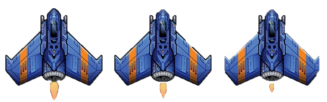
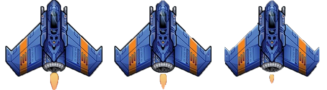
new projecttiles logic added; bugs fixed

diff --git a/Projectile.cpp b/Projectile.cpp
@@ -1,7 +1,6 @@
 #include <iostream>
 
 #include "Projectile.h"
-#include "Consts.h"
 
 struct AmmoParams
 {
@@ -11,10 +10,12 @@ struct AmmoParams
 
 AmmoParams getAmmoParamsByGunType(GunTypes type);
 
-const int ROCKET_AMMO_SPEED = 20;
+const int EXPLOSION_PROJECTILE_CLIP_LENGTH = 1;
+
+const int ROCKET_AMMO_SPEED = 8;
 const int LAZER_AMMO_SPEED = 1000;
 
-TextureParams ROCKET_AMMO_TEXTURE_PARAMS = { TEXTURE_SPRITE, "res/rocket2.png", { 30, 76, 3 } };
+TextureParams ROCKET_AMMO_TEXTURE_PARAMS = { TEXTURE_SPRITE, "res/rocket3.png", { 30, 90, 3 } };
 TextureParams LAZER_AMMO_TEXTURE_PARAMS = { TEXTURE_SPRITE, "res/lazer_ammo.png" , { 27, 111, 3 } };
 
 Projectile::Projectile(GunTypes p_type, SDL_Renderer* p_renderer) : Texture(p_renderer)
@@ -27,10 +28,26 @@ Projectile::Projectile(GunTypes p_type, SDL_Renderer* p_renderer) : Texture(p_re
 	vel = params.speed; // Todo: replace by velocity
 	gunType = p_type;
 
-	
+	loadFromSprite(params.texture.path, params.texture.spriteParams);
+
+	// Set up explosion and common clips
+	Clips& pjClips = getClips();
+
+	for (short i = 0; i < pjClips.size(); i++)
+	{
+		if (i < EXPLOSION_PROJECTILE_CLIP_LENGTH) // Todo: length should relate on type
+		{
+			explosionClips.push_back(&pjClips[i]);
+		}
+		else
+		{
+			clips.push_back(&pjClips[i]);
+		}
+	}
+
 	//if (params.texture.type == TEXTURE_SPRITE)
 	//{
-		loadFromSprite(params.texture.path, params.texture.spriteParams);
+		//loadFromSprite(params.texture.path, params.texture.spriteParams);
 
 	//}
 	//else
@@ -41,11 +58,13 @@ Projectile::Projectile(GunTypes p_type, SDL_Renderer* p_renderer) : Texture(p_re
 
 void Projectile::startProjectile(SDL_Point* shipPosition)
 {
-	// Todo: make widht/height const; replace 98 by shipWidth
+	// Todo: make widht/height const; replace 109 by shipWidth
+	// Todo: relate y on gun position
 	FlyingProjectile newProjectile = {
 		{ shipPosition->x + (109 - width) / 2, shipPosition->y - height },
-		0
-	};	
+		0,
+		false
+	};
 
 	releasedPjs.push_back(newProjectile);
 }
@@ -60,12 +79,21 @@ void Projectile::handleEvent(SDL_Event& e)
 
 void Projectile::onBeforeRender()
 {
-	std::vector<SDL_Rect>& shipClips = getClips(); // add to flying object as rendered clips
-
 	for (int i = 0; i < releasedPjs.size(); i++)
 	{
-		move(&releasedPjs[i]);
-		SDL_Rect* currentClip = &shipClips[releasedPjs[i].frame / shipClips.size()];
+		FlyingProjectile& pj = releasedPjs[i];
+
+		if (pj.isStarted)
+		{
+			move(&pj);
+		}
+
+		// Limit clips if exploaded
+		SDL_Rect* currentClip = 
+			pj.isStarted ? 
+			clips[pj.frame / clips.size()]:
+			explosionClips[pj.frame / explosionClips.size()];
+
 		render(releasedPjs[i].position.x, releasedPjs[i].position.y, currentClip);
 	}
 }
@@ -74,11 +102,22 @@ void Projectile::onAfterRender()
 {
 	for (int i = 0; i < releasedPjs.size(); i++)
 	{
-		++releasedPjs[i].frame;
-
-		if (releasedPjs[i].frame / 4 >= getClips().size()) // Todo: update
+		FlyingProjectile& pj = releasedPjs[i];
+		short clipLength = pj.isStarted ? clips.size() : explosionClips.size();
+		
+		if (++pj.frame / clipLength >= clipLength)
 		{
-			releasedPjs[i].frame = 0;
+			if (!pj.isStarted)
+			{
+				pj.isStarted = true;
+			}
+			pj.frame = 0;
+		}
+
+		// Remove missed projectiles
+		if (pj.position.y < 0 || pj.position.x < 0)
+		{
+			releasedPjs.erase(releasedPjs.begin() + i);
 		}
 	}
 }

diff --git a/WeaponModule.cpp b/WeaponModule.cpp
@@ -1,16 +1,5 @@
 #include "WeaponModule.h"
 
-const float ROCKET_COOLDOWN = 1000.0f;
-const float LAZER_COOLDOWN = 0;
-const TextureParams ROCKET_TEXTURE_PARAMS = { TEXTURE_SPRITE, "res/rocket.png" };
-const TextureParams LAZER_TEXTURE_PARAMS = { TEXTURE_SPRITE, "res/lazer.png" };
-
-struct GunParams 
-{
-	float cooldownMs;
-	TextureParams texture;
-};
-
 GunParams getGunParamsByType(GunTypes type);
 
 WeaponModule::WeaponModule(
@@ -57,14 +46,13 @@ void WeaponModule::handleEvent(SDL_Event& e)
 {
 	ammo.handleEvent(e);
 
-	if (e.type == SDL_KEYDOWN && e.key.repeat == 0)
+	const Uint8* currentKeyStates = SDL_GetKeyboardState(NULL);
+
+	// Todo: Fix issue with left+top+l pressed
+	if (currentKeyStates[SDL_SCANCODE_L])
 	{
-		switch (e.key.keysym.sym)
-		{
-		case SDLK_l:
-			fire();
-			break;
-		}
+		fire();
+		return;
 	}
 }
 void WeaponModule::onBeforeRender()
@@ -85,7 +73,7 @@ void WeaponModule::onAfterRender()
 
 WeaponModule::~WeaponModule()
 {
-
+	shipPosition = NULL;
 }
 
 GunParams getGunParamsByType(GunTypes type)

diff --git a/Level.cpp b/Level.cpp
@@ -20,28 +20,20 @@ Level::~Level()
 	renderer = NULL;
 }
 
-bool Level::start()
+void Level::start()
 {
-	SpriteParams shipParams = { 109, 96, 3 }; // Todo: Move to const
-
 	Background backgroundLvl1(renderer, "res/space.png");
-	Ship playerShip(renderer, "res/shipA.png", shipParams);
+	Ship playerShip(renderer, "res/shipA.png", DEFAULT_PLAYER_SHIP_SPRITE_PARAMS);
 
-	bool res = audioPlayer.load("res/lvl1.mp3");
-	audioPlayer.play();
-
-	std::cout << res << std::endl;
+	audioPlayer.load("res/lvl1.mp3");
+	//audioPlayer.play(); 
 
 	objects.push_back(&backgroundLvl1);
 	objects.push_back(&playerShip);
 
-	gameLoop.addEventListeners(objects); // All objects are listening by default
+	// All level objects are listening by default
+	gameLoop.addEventListeners(objects); 
 	gameLoop.start(onBeforeRender, onAfterRender, this);
-
-	playerShip.free();
-	backgroundLvl1.free();
-
-	return true;
 }
 
 void onBeforeRender(Level* level)

diff --git a/Projectile.h b/Projectile.h
@@ -2,7 +2,7 @@
 #include <SDL.h>
 
 #include "Texture.h"
-//#include "Consts.h"
+#include "Consts.h"
 
 struct TextureParams;
 const enum GunTypes;
@@ -11,6 +11,7 @@ struct FlyingProjectile
 {
 	SDL_Point position;
 	short frame;
+	bool isStarted;
 };
 
 class Projectile : public Texture // Todo: maybe create class ShipComponent? 
@@ -24,8 +25,13 @@ public:
 	void virtual onBeforeRender();
 	void virtual onAfterRender();
 private:
+	typedef std::vector<SDL_Rect*> ClipPointers;
+	typedef std::vector<FlyingProjectile> FlyingProjectiles;
+
 	int width, height;
 	int vel;
-	std::vector<FlyingProjectile>releasedPjs;
+	FlyingProjectiles releasedPjs;
+	ClipPointers explosionClips;
+	ClipPointers clips;
 	GunTypes gunType;
 };

diff --git a/WeaponModule.h b/WeaponModule.h
@@ -5,13 +5,8 @@
 #include "Projectile.h"
 #include "Consts.h"
 
-//struct Gun
-//{
-//	GunTypes gun;
-//	float cooldownMs;
-//	TextureParams texture;
-//	Projectile ammo;
-//};
+class Projectile;
+class Texture;
 
 class WeaponModule : public Texture
 {
@@ -37,4 +32,15 @@ private:
 	Timer cooldownTimer;
 	SDL_Point* shipPosition;
 	Projectile ammo;
+};
+
+const float ROCKET_COOLDOWN = 100.0f;
+const float LAZER_COOLDOWN = 0;
+const TextureParams ROCKET_TEXTURE_PARAMS = { TEXTURE_SPRITE, "res/rocket.png" };
+const TextureParams LAZER_TEXTURE_PARAMS = { TEXTURE_SPRITE, "res/lazer.png" };
+
+struct GunParams
+{
+	float cooldownMs;
+	TextureParams texture;
 };

diff --git a/Ship.cpp b/Ship.cpp
@@ -20,8 +20,6 @@ Ship::Ship(
 
 void Ship::handleEvent(SDL_Event& e)
 {
-    gun.handleEvent(e);
-
     if (e.type == SDL_KEYDOWN && e.key.repeat == 0)
     {
         switch (e.key.keysym.sym)
@@ -58,6 +56,8 @@ void Ship::handleEvent(SDL_Event& e)
                 velX -= MAX_VELOCITY; break;
         }
     }
+    gun.handleEvent(e);
+
 }
 
 void Ship::move()
@@ -89,6 +89,8 @@ void Ship::onBeforeRender()
 
 void Ship::onAfterRender()
 {
+    gun.onAfterRender();
+
     ++frame;
     if (frame / FRAMES_PER_SHIP_UDPATE >= getClips().size())
     {

diff --git a/Texture.cpp b/Texture.cpp
@@ -107,7 +107,6 @@ bool Texture::loadFromSprite(std::string path, SpriteParams params, RGB* colorKe
 		return false;
 	}
 
-	std::cout << "path: " << path << std::endl;
 	for (int i = 0; i < params.length; i++)
 	{
 		SDL_Rect nextImage = { params.imageW * i, 0, params.imageW, params.imageH };
@@ -117,7 +116,7 @@ bool Texture::loadFromSprite(std::string path, SpriteParams params, RGB* colorKe
 	return true;
 }
 
-std::vector<SDL_Rect>& Texture::getClips()
+Texture::Clips& Texture::getClips()
 {
 	return spriteClips;
 }

diff --git a/Texture.h b/Texture.h
@@ -13,6 +13,7 @@ struct SpriteParams;
 class Texture: public Object
 {
 public: 
+	typedef std::vector<SDL_Rect> Clips;
 	Texture(SDL_Renderer* p_renderer);
 	virtual ~Texture();
 
@@ -23,13 +24,13 @@ public:
 
 	int getWidth();
 	int getHeight();
-	std::vector<SDL_Rect>& getClips();
+	Clips& getClips();
 
 	void virtual handleEvent(SDL_Event& e);
 private: 
 	SDL_Texture* texture;
 	SDL_Renderer* renderer;
-	std::vector<SDL_Rect> spriteClips;
+	Clips spriteClips;
 	int width;
 	int height;
 };

diff --git a/Consts.h b/Consts.h
@@ -1,7 +1,4 @@
 #pragma once
-#include "Projectile.h"
-
-class Projectile;
 
 const int SCREEN_WIDTH = 920; // Todo: Remove usage of this vars as we pass it localy
 const int SCREEN_HEIGHT = 620;// or remove localy
@@ -12,6 +9,8 @@ struct SpriteParams
 	int imageH;
 	int length;
 };
+
+const SpriteParams DEFAULT_PLAYER_SHIP_SPRITE_PARAMS = { 109, 102, 3 };
 
 const enum TextureTypes { TEXTURE_SPRITE, TEXTURE_FILE };
 

diff --git a/Ship.h b/Ship.h
@@ -9,7 +9,7 @@ class Ship: public Texture
 {
 public:
     const int WIDTH = 109; // Todo: init from params
-    const int HEIGHT = 96;
+    const int HEIGHT = 102;
     const int MAX_VELOCITY = 5;
 
     Ship(SDL_Renderer* p_renderer, std::string path, SpriteParams shipParams ); //Todo: remove renderer passing?

diff --git a/Level.h b/Level.h
@@ -11,7 +11,8 @@ class Level {
 public: 
 	Level(SDL_Renderer* p_renderer);
 	~Level();
-	bool start();
+	void start();
+
 	friend void onBeforeRender(Level* level);
 	friend void onAfterRender(Level* level);
 private:
